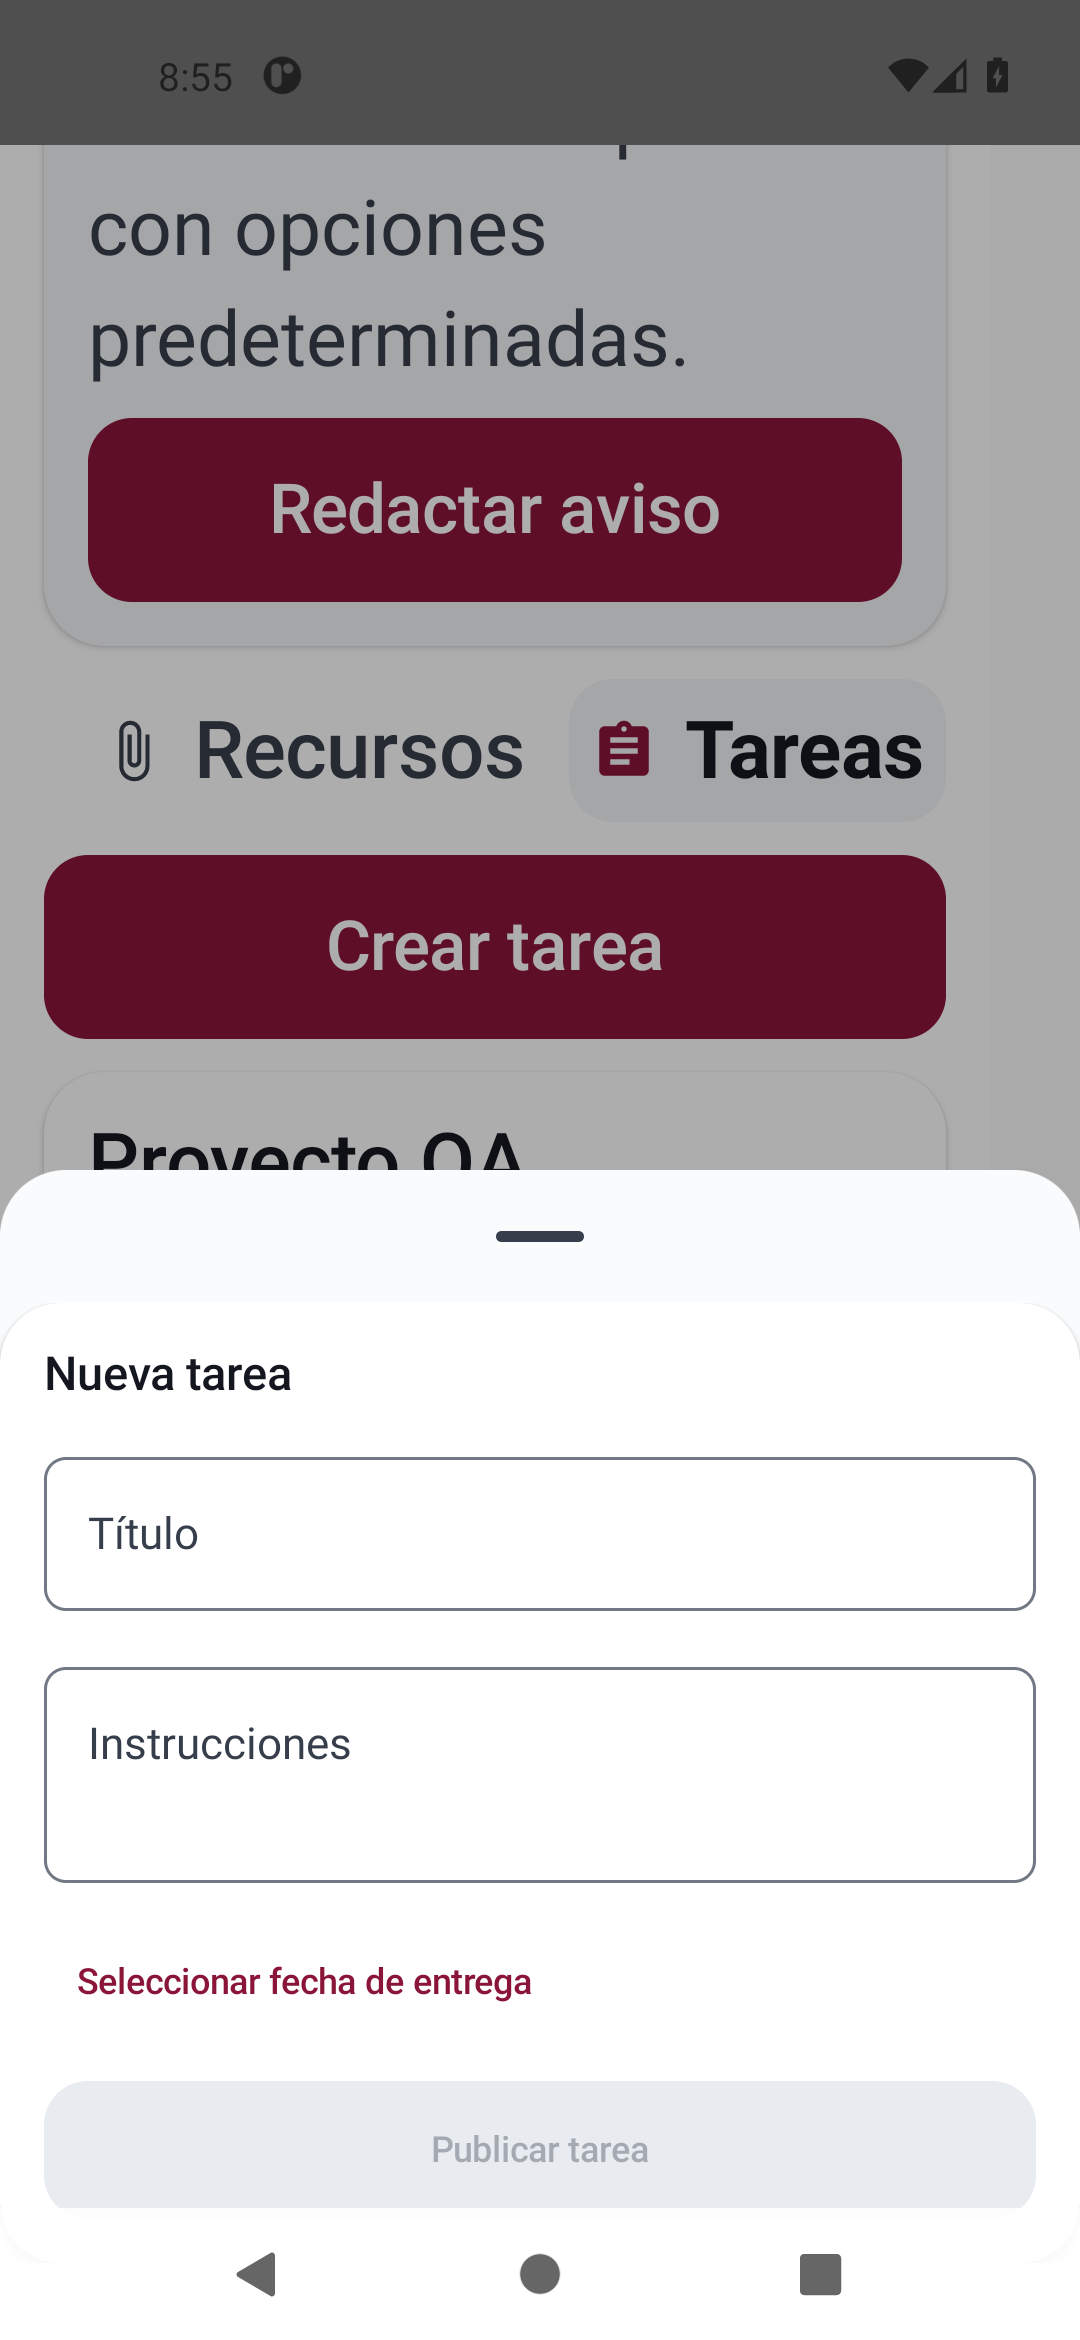
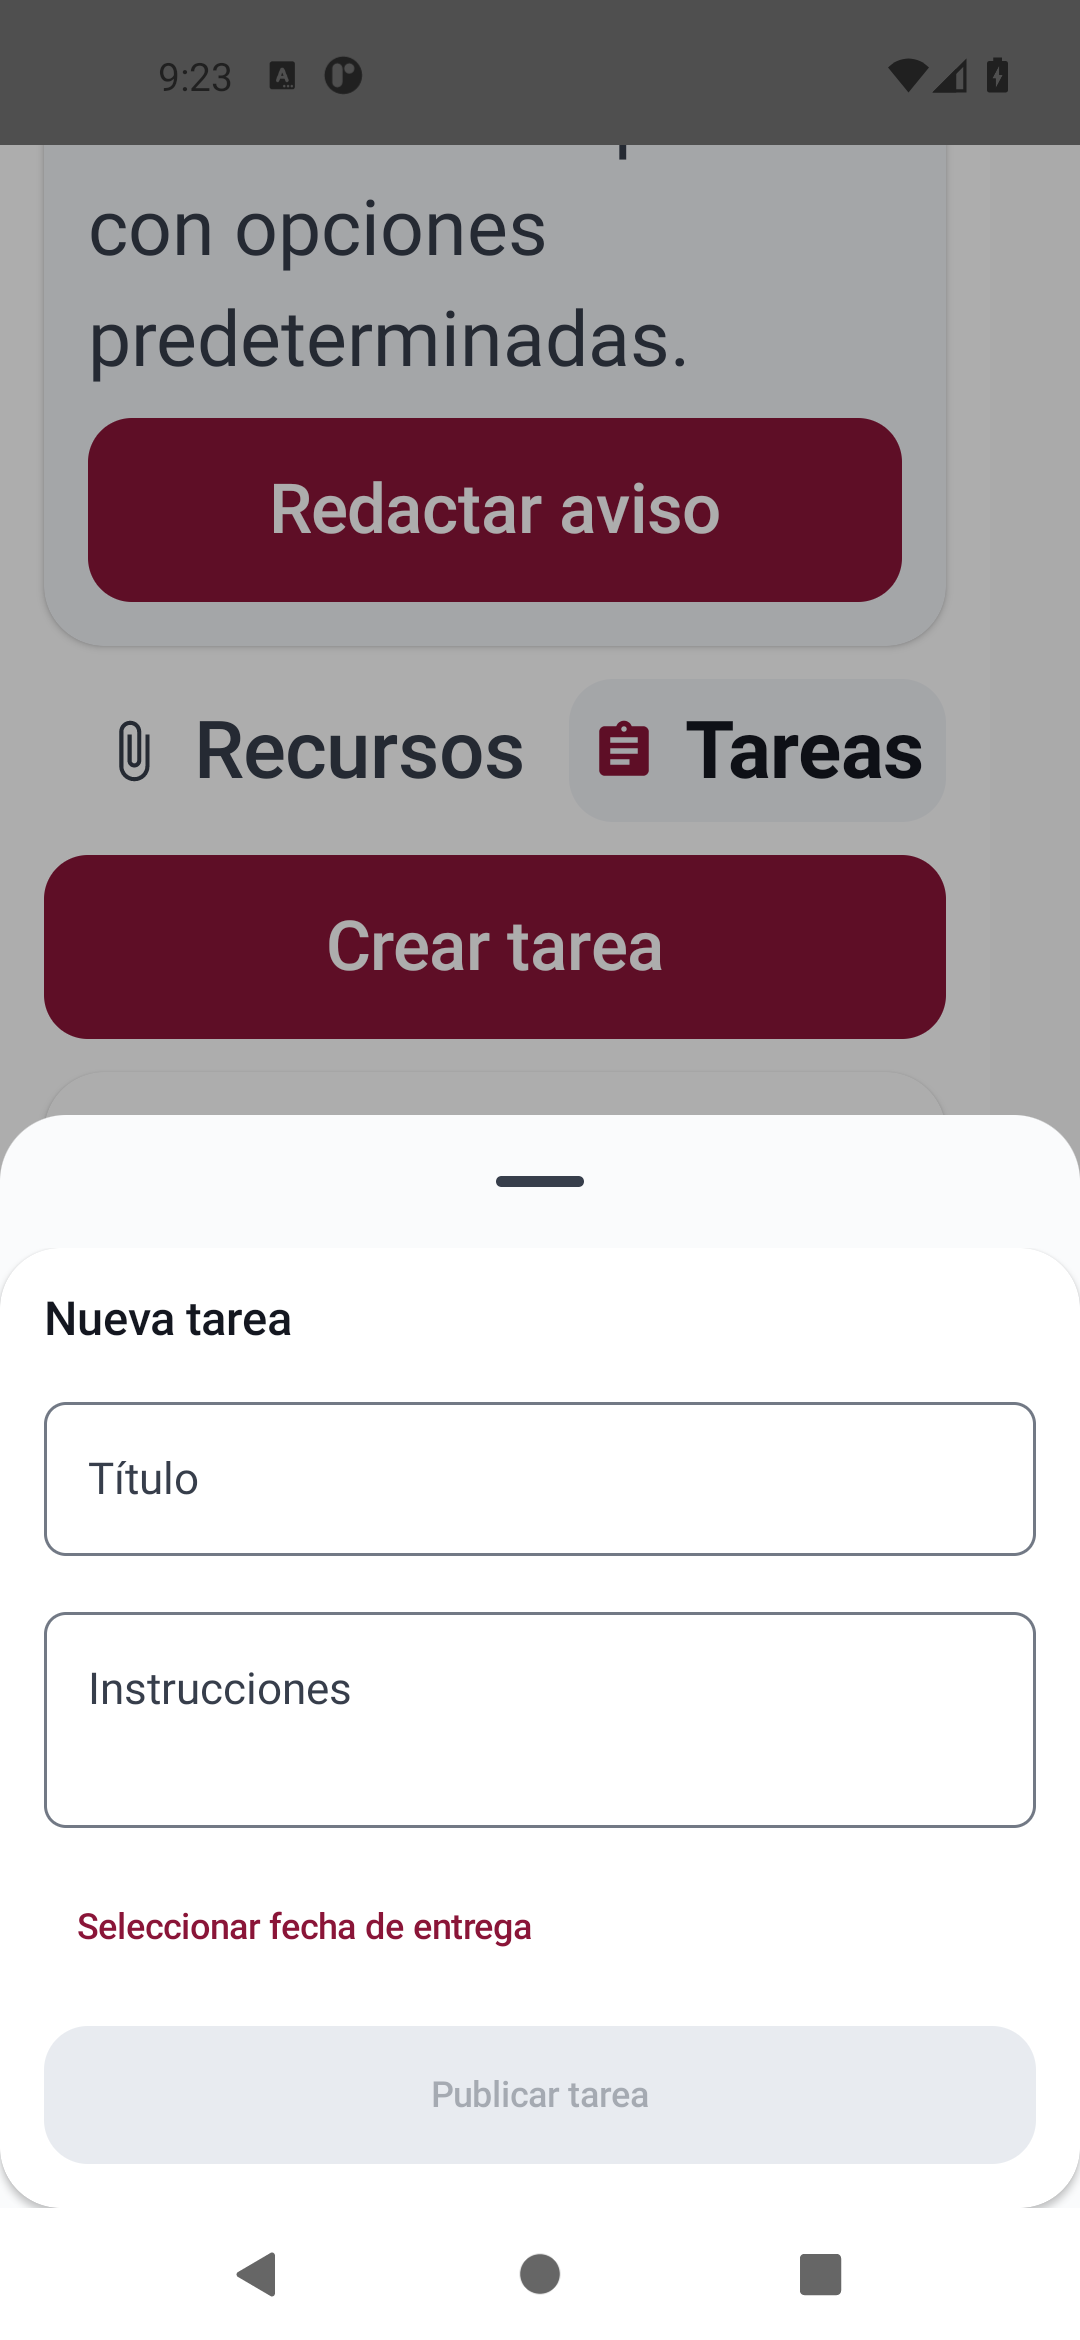
fix(ui): expand compact task form and synchronize keyboard checks

diff --git a/apps/android/app/src/androidTest/kotlin/org/companerodeescuela/V12AdministrationUiTest.kt b/apps/android/app/src/androidTest/kotlin/org/companerodeescuela/V12AdministrationUiTest.kt
@@ -16,6 +16,7 @@ import androidx.compose.ui.test.ComposeTimeoutException
 import androidx.compose.ui.test.assertIsDisplayed
 import androidx.compose.ui.test.assertIsEnabled
 import androidx.compose.ui.test.assertIsNotEnabled
+import androidx.compose.ui.test.isDisplayed
 import androidx.compose.ui.test.junit4.createAndroidComposeRule
 import androidx.compose.ui.test.onAllNodesWithTag
 import androidx.compose.ui.test.onNodeWithTag
@@ -328,6 +329,9 @@ class V12AdministrationUiTest {
     private fun dismissKeyboardBeforeSubmit() {
         compose.runOnIdle {
             inputFocusManager.clearFocus(force = true)
+        }
+        compose.waitForIdle()
+        compose.runOnIdle {
             WindowCompat
                 .getInsetsController(compose.activity.window, compose.activity.window.decorView)
                 .hide(WindowInsetsCompat.Type.ime())
@@ -508,9 +512,12 @@ class V12AdministrationUiTest {
             compose.onNodeWithTag("staff_identity").performScrollTo().performTextInput("TEST-REFERENCE")
             compose.onNodeWithTag("staff_preference").performScrollTo().performTextInput("QA Group preference")
             dismissKeyboardBeforeSubmit()
-            compose
-                .onNodeWithTag("staff_submit")
-                .performScrollTo()
+            val submit =
+                compose
+                    .onNodeWithTag("staff_submit")
+                    .performScrollTo()
+            compose.waitUntil(10000) { submit.isDisplayed() }
+            submit
                 .assertIsDisplayed()
                 .assertIsEnabled()
                 // Exercise the exposed accessibility action once. Native IME animations on API35

diff --git a/apps/android/feature/channel/src/main/kotlin/org/companerodeescuela/feature/channel/ChannelScreen.kt b/apps/android/feature/channel/src/main/kotlin/org/companerodeescuela/feature/channel/ChannelScreen.kt
@@ -45,6 +45,7 @@ import androidx.compose.material3.Text
 import androidx.compose.material3.TextButton
 import androidx.compose.material3.pulltorefresh.PullToRefreshBox
 import androidx.compose.material3.rememberDatePickerState
+import androidx.compose.material3.rememberModalBottomSheetState
 import androidx.compose.runtime.Composable
 import androidx.compose.runtime.LaunchedEffect
 import androidx.compose.runtime.getValue
@@ -417,7 +418,10 @@ fun ChannelScreen(
                 }
             }
             if (taskComposerOpen) {
-                ModalBottomSheet(onDismissRequest = { taskComposerOpen = false }) {
+                ModalBottomSheet(
+                    onDismissRequest = { taskComposerOpen = false },
+                    sheetState = rememberModalBottomSheetState(skipPartiallyExpanded = true),
+                ) {
                     TaskComposer(
                         title = state.draftTaskTitle,
                         instructions = state.draftTaskInstructions,

diff --git a/docs/audits/CONSOLIDACION_UI_LOGICA_20261102.md b/docs/audits/CONSOLIDACION_UI_LOGICA_20261102.md
@@ -54,6 +54,7 @@ Las rutas de esta tabla son relativas a `apps/android/feature/` y `services/api/
 | UI-02 | P2 | Docente no ve nota guardada al pasar entrega a REVIEWED | Mostrar nota persistida junto con la revisión; regresión Android |
 | UI-03 | P2 | Porcentaje de categoría derivado directamente de Double impide borrar o completar un decimal | Borradores de texto y validación antes de guardar/publicar |
 | UI-04 | P2 | Pestañas de Canal de ancho fijo partían palabras con texto al 200%, comprobado en captura | Ancho de contenido y desplazamiento horizontal con selección visible; regresión de una línea completa |
+| UI-05 | P1 | En ventana compacta, el compositor abierto parcialmente dejaba Publicar fuera de la ventana pese a `performScrollTo` | El formulario abre expandido; rojo reproducido en 320 × 640 y regresión verde sin rebajar visibilidad |
 | PERF-01 | P1 | Importación de gradebook lee archivo completo sin límite antes de validar y procesa en hilo UI | Lectura acotada y trabajo de archivo/parser fuera de UI; regresiones de límites |
 | DATA-01 | P1 | Tras guardar una revisión, editar pesos o importar otro archivo deja publicar la revisión anterior aunque la UI muestra datos nuevos | Marcar cambios sin guardar y exigir guardar de nuevo antes de publicar; regresión ViewModel |
 | NAV-01 | P2 | Push de tarea de clase B abre primer/último canal A porque se descarta channelId | Propagar identidad del canal y seleccionar solo entre canales autorizados vigentes |
@@ -91,7 +92,7 @@ Secuencia de afinado posterior:
 
 ## 6. Verificación y estado de entrega
 
-La última comprobación global terminó con `BUILD SUCCESSFUL`, 1364 tareas y salida 0. Se reutilizaron resultados válidos de Gradle; se ejecutaron de nuevo las regresiones y tareas afectadas por las últimas modificaciones. Registro local: `build/audit-delivery-verified-20261102.log`.
+La última comprobación global terminó con `BUILD SUCCESSFUL`, 1364 tareas y salida 0. Se reutilizaron resultados válidos de Gradle; se ejecutaron de nuevo las regresiones y tareas afectadas por las últimas modificaciones. Registro local: `build/audit-ci-fix-verified-20261102.log`.
 
 | Grupo | Casos registrados | Ejecutados sin fallos | Omitidos |
 |---|---:|---:|---:|
@@ -100,28 +101,29 @@ La última comprobación global terminó con `BUILD SUCCESSFUL`, 1364 tareas y s
 | Bibliotecas Android | 357 | 357 | 0 |
 | App Académica unit | 7 | 7 | 0 |
 | App Gestión unit | 7 | 7 | 0 |
-| Layout Tareas, emulador API 30 | 4 | 4 | 0 |
-| **Total** | **1097** | **1094** | **3** |
+| Tareas y administración/MFA, emulador API 30 | 10 | 10 | 0 |
+| **Total** | **1103** | **1100** | **3** |
 
 También pasaron `ktlintCheck`, `lint` y la compilación de ambas APK debug. La revisión independiente de los diffs de seguridad, estado, navegación, UI y runner CI terminó sin hallazgos pendientes dentro del lote corregido. Los problemas de producto de la sección 4 permanecen abiertos.
 
 Comando reproducible, con JDK 21 y `V12_TEST_MONGODB_URI=mongodb://127.0.0.1:27017` apuntando exclusivamente al Mongo desechable local:
 
 ```powershell
-.\gradlew.bat :apps:android:feature:grading:testDebugUnitTest :services:api:test :shared:contracts:test :shared:models:test :shared:validation:test testDebugUnitTest :apps:android:app:testAcademicDebugUnitTest :apps:android:app:testManagementDebugUnitTest ktlintCheck lint :apps:android:app:assembleAcademicDebug :apps:android:app:assembleManagementDebug :apps:android:app:connectedAcademicDebugAndroidTest '-Pandroid.testInstrumentationRunnerArguments.class=org.companerodeescuela.ChannelTaskLayoutUiTest' '-Pandroid.injected.androidTest.leaveApksInstalledAfterRun=true' --continue --console=plain --max-workers=1 --no-daemon '-Dorg.gradle.jvmargs=-Xmx1536m -XX:MaxMetaspaceSize=768m -Dfile.encoding=UTF-8' '-Pkotlin.compiler.execution.strategy=in-process'
+.\gradlew.bat :apps:android:feature:grading:testDebugUnitTest :services:api:test :shared:contracts:test :shared:models:test :shared:validation:test testDebugUnitTest :apps:android:app:testAcademicDebugUnitTest :apps:android:app:testManagementDebugUnitTest ktlintCheck lint :apps:android:app:assembleAcademicDebug :apps:android:app:assembleManagementDebug :apps:android:app:connectedAcademicDebugAndroidTest '-Pandroid.testInstrumentationRunnerArguments.class=org.companerodeescuela.ChannelTaskLayoutUiTest,org.companerodeescuela.V12AdministrationUiTest' '-Pandroid.injected.androidTest.leaveApksInstalledAfterRun=true' --continue --console=plain --max-workers=1 --no-daemon '-Dorg.gradle.jvmargs=-Xmx1536m -XX:MaxMetaspaceSize=768m -Dfile.encoding=UTF-8' '-Pkotlin.compiler.execution.strategy=in-process'
 ```
 
 Las nuevas cuatro pruebas son obligatorias en CI para **Académica/Gestión × API 31/35**, sin omisiones, con exportación de tres PNG validados. El estado de CI y SHA de integración se consultan en el PR asociado a esta rama; no se hereda el CI verde de otro commit.
 
 ### Evidencia visual local
 
-Capturas Android directas, 1080 × 2340, emulador API 30, texto al 200%, transporte y usuarios **sintéticos**. Se inspeccionaron los PNG; la captura inicial reveló palabras partidas en las pestañas y motivó la regresión adicional. Las capturas enlazadas son posteriores a esa corrección.
+Capturas Android directas, tres de 1080 × 2340 y una de 320 × 640, emulador API 30, texto al 200%, transporte y usuarios **sintéticos**. Se inspeccionaron los PNG; la captura inicial reveló palabras partidas en las pestañas y motivó la regresión adicional. Las capturas enlazadas son posteriores a las correcciones.
 
 - [Revisión docente y acciones alcanzables](evidence/20261102/teacher-review-200.png).
 - [Entrega del estudiante tras instrucciones largas](evidence/20261102/student-submit-200.png).
 - [Composición de tarea y pestañas con palabras completas](evidence/20261102/task-composer-200.png).
+- [Compositor expandido en ventana compacta](evidence/20261102/task-composer-compact-200.png).
 
-Estas pruebas verifican alcance por scroll y renderizado de nota/etiquetas; no ejecutan publicación, revisión ni entrega real y no acreditan IME/TalkBack ni toda la matriz visual de la sección 5.
+Las cuatro pruebas de Tareas verifican alcance por scroll y renderizado de nota/etiquetas; no ejecutan publicación, revisión ni entrega real. Los seis casos de administración ejercitan repositorios/ViewModels con transporte HTTP sintético y comprobaciones estrictas de MFA. No acreditan identidad institucional real, TalkBack ni toda la matriz visual de la sección 5.
 
 ### APK locales de QA
 
@@ -129,8 +131,8 @@ Sin distribución productiva ni prueba física. Las rutas se mantienen bajo `app
 
 | Variante | Ruta relativa | SHA-256 |
 |---|---|---|
[4 lines of base64/hex data omitted]
 
 - Exportador de evidencia: 10 pruebas Python pasan; el primer intento en sandbox falló por permisos de temporales, repetición con acceso normal satisfactoria.
 - Configuración Firebase Académica: prueba PowerShell acepta Academic y rechaza Management/sender discordantes sin imprimir configuración.
@@ -138,3 +140,11 @@ Sin distribución productiva ni prueba física. Las rutas se mantienen bajo `app
 - Un daemon Gradle terminó inesperadamente durante compilación; comprobaciones posteriores limitan workers/memoria y conservan el fallo ambiental en los logs locales.
 - API con Mongo local: 694 casos registrados, 691 ejecutados sin fallo y tres omitidos. Las omisiones son `SiiiLiveContractTest`, `SiiiPushLiveContractTest` y `SiiiFullChainLiveContractTest`: requieren un laboratorio Next/PostgreSQL SIII de loopback y sus variables sintéticas, no configurados en esta ejecución. No se sustituyeron por éxito ni se deshabilitaron pruebas.
 - Las dos regresiones de revocación durante consumo MFA pasaron en la suite API completa; antes de la corrección ambas fallaban porque la operación se completaba.
+
+### Hallazgos de la primera matriz CI y comprobación compacta
+
+- La primera matriz del PR #268 hizo visible el fallo del compositor en 320 × 640. Se reprodujo también localmente antes de cambiarlo; abrir el formulario expandido conserva la aserción de visibilidad y permite llegar al botón.
+- El helper V12 ahora deja propagarse la pérdida de foco antes de pedir el cierre de IME. Conserva los 10 segundos, exige insets disponibles/IME oculto/bottom cero y mantiene el fallo diagnóstico. El envío de solicitud espera además la geometría visible, conservando `assertIsDisplayed`, `assertIsEnabled` y su acción HTTP.
+- Después del ajuste pasaron localmente, aislados en 320 × 640, los cuatro casos de Tareas y los casos de configuración MFA y solicitud de tutor que habían fallado. Registros: `build/compact-tasks-green-20261102.log`, `build/compact-mfa-profile-green-20261102.log` y `build/compact-mfa-staff-green-20261102.log`.
+- Una ampliación exploratoria a los diez casos en esa ventana artificial dejó de avanzar en `administrativeTutorApprovalSelectsActualGroupAndUsesBoundProof`. Se detuvo el proceso y se restauró la pantalla; **esa corrida no se contabiliza como aprobada**. El sistema no reportó ANR. Queda pendiente aislar esa espera del runner en el afinado API 30 compacto; los diez casos sí pasaron en la geometría normal.
+- Otro job API 35 falló antes de arrancar por `Error on ZipFile unknown archive` al descargar la imagen SDK; no fue una assertion de la app. El CI del commit corregido se exige completo en el mismo PR.

diff --git a/docs/superpowers/plans/2026-11-02-consolidacion-auditoria.md b/docs/superpowers/plans/2026-11-02-consolidacion-auditoria.md
@@ -58,7 +58,9 @@
 - [x] Crear matriz por módulo/rol con ruta UI → repositorio → API → persistencia y evidencia.
 - [x] Separar problemas corregidos, pendientes reales y aceptación futura en emulador/dispositivo.
 - [x] Revisar diff final, pruebas, secretos y whitespace.
-- [ ] Commit y push de la rama; PR con evidencia concreta. Integrar únicamente con checks requeridos satisfactorios.
+- [x] Commit y push de la rama; PR #268 con evidencia concreta.
+
+**Gate de integración:** fusionar únicamente con checks requeridos y matriz Android satisfactorios en el último SHA; el estado verificable queda en el PR.
 
 ## Execution ledger
 
